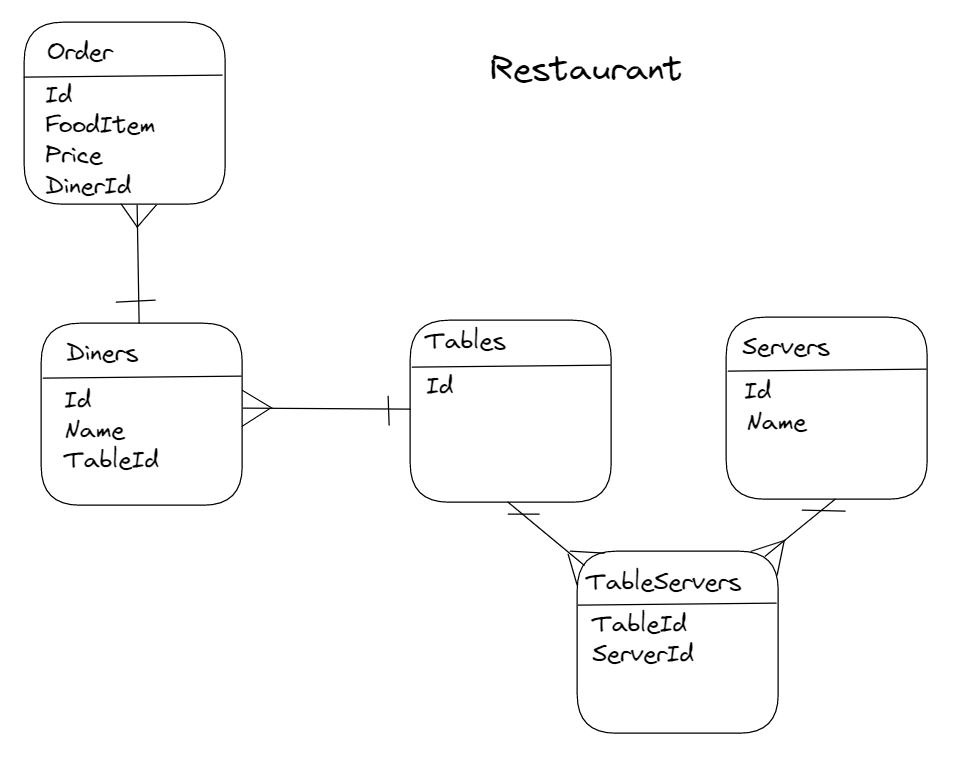
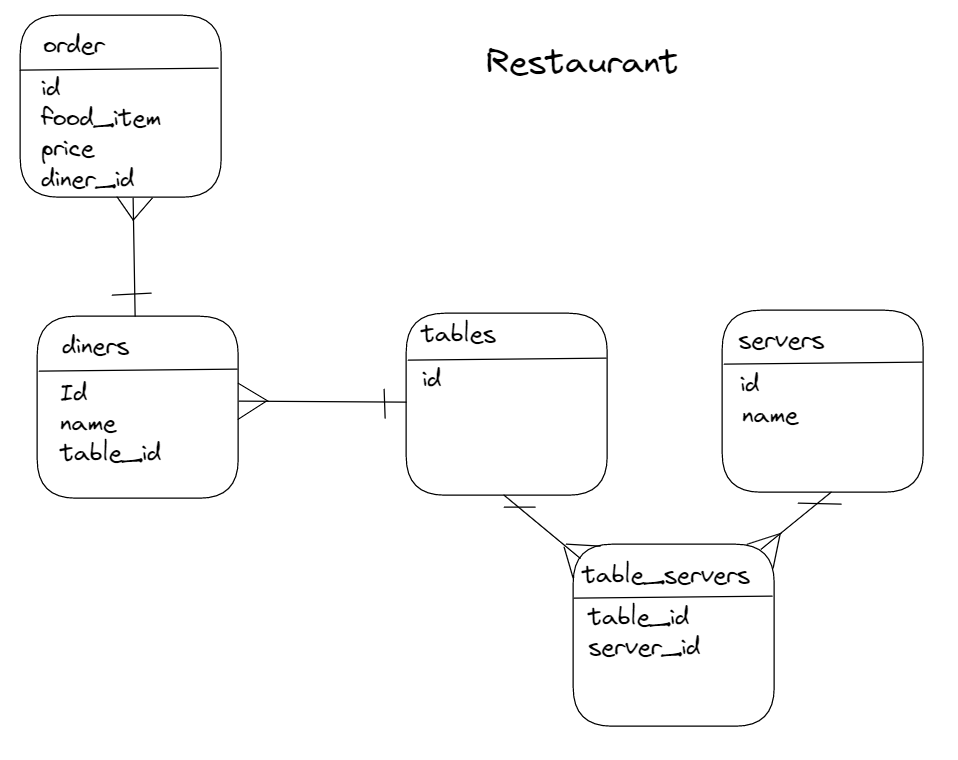
Update review

diff --git a/Mod2/Lessons/Week3/CFUReview.md b/Mod2/Lessons/Week3/CFUReview.md
@@ -19,11 +19,11 @@ Each question will relate to the table diagram below:
 
 4. Write the SQL query to get the most expensive food item.
 
-5. Write the SQL query that would return a count of Diners by table.
+5. Write the SQL query that would return a count of diners by table.
 
 6. Imagine you are in Mod3 - a Mod2 student has asked you to help them understand aggregates.  How would you explain the query you wrote above to them?
 
-7. Write the SQL query that would return a list of orders with their tableId.
+7. Write the SQL query that would return a list of orders with their table_id.
 
 8. How do you know when to use `JOIN`?
 
